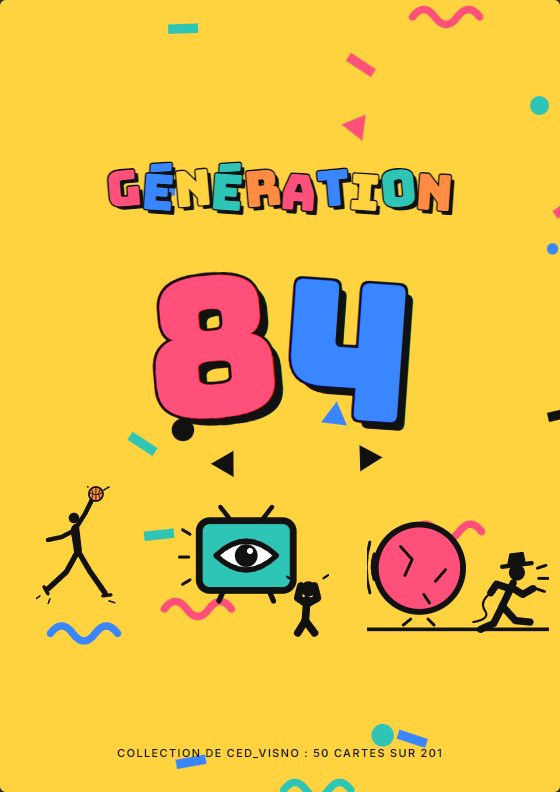
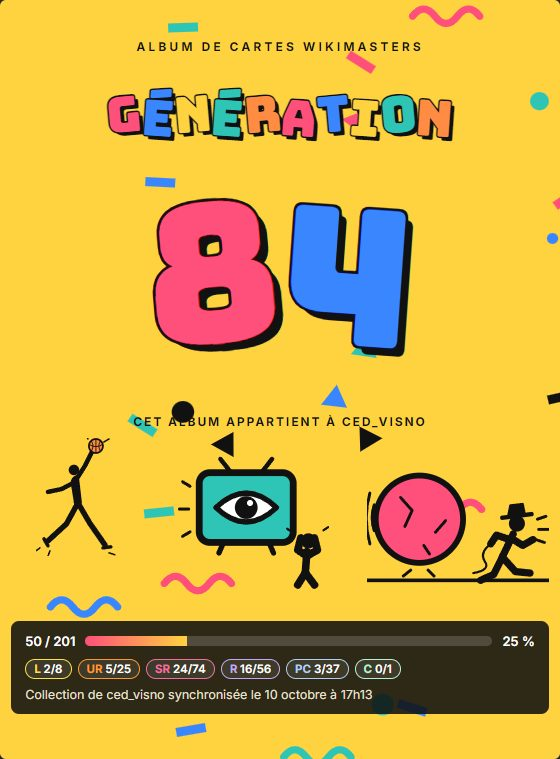
Mise à jour des albums

diff --git a/generation-84/index.html b/generation-84/index.html
@@ -269,11 +269,24 @@
   .chap > .vlabel { visibility:hidden; height:0; margin:0; }
   .chap, #couverture { scroll-margin-top:70px; }
   .covers.one { margin-bottom:34px; }
+  .cv-fl { justify-content:flex-start; padding-top:7%; aspect-ratio:auto; min-height:0; }
+  .cv-fl .brand, .cv-fl .owner { position:relative; z-index:2; margin:0; font:700 12px var(--wms); letter-spacing:.26em; text-transform:uppercase; }
+  .cv-fl .brand { margin-bottom:5%; } .cv-fl .owner { margin-top:3%; letter-spacing:.16em; }
+  .cv-fl .sils { margin-top:5%; }
+  .cv-fl .stats { position:relative; z-index:2; width:100%; margin:6% 0 0; padding:12px 14px; border-radius:8px; background:rgba(17,17,17,.88); color:#fff;
+                  text-align:left; }
+  .prog { display:flex; align-items:center; gap:10px; font:600 13px var(--wms); }
+  .track { flex:1; height:10px; border-radius:99px; background:rgba(255,255,255,.16); overflow:hidden; }
+  .track i { display:block; height:100%; background:linear-gradient(90deg, #ff4f7b, #ffd23f); }
+  .chips { display:flex; flex-wrap:wrap; gap:6px; margin-top:10px; }
+  .chip { padding:2px 8px; border-radius:99px; background:rgba(255,255,255,.08); border:1px solid var(--rc); font:600 11.5px var(--wms); }
+  .chip b { color:var(--rc); }
+  .state { margin:8px 0 0; font:500 12.5px var(--wms); color:#e8e2d4; } .state + .state { margin-top:2px; }
   @media (max-width: 900px) { nav.bar { flex-wrap:nowrap; overflow-x:auto; justify-content:flex-start; gap:12px; scrollbar-width:none; }
     nav.bar a { flex:none; font-size:10.5px; letter-spacing:.06em; } }
 </style></head><body>
 <nav class="bar"><a href="../" class="home">← Tous les albums</a><a href="#couverture">Couverture</a><a href="#dp-0">La France</a><a href="#dp-1">Le monde</a><a href="#dp-2">Orwell et insolite</a><a href="#dp-3">Le sport</a><a href="#dp-4">Le grand écran</a><a href="#dp-5">Le Top 50</a><a href="#dp-6">Le petit écran</a><a href="#dp-7">Les machines</a><a href="#dp-8">Les jeux vidéo</a><a href="#dp-9">Jouets</a><a href="#dp-10">Objets et nés en 84</a><a href="#dp-11">Génération 84</a></nav>
-<section class="covers one"><div id="couverture"><div class="cover cv-fl"><svg class="memphis" viewBox="0 0 300 420" preserveAspectRatio="none" aria-hidden="true"><rect width="16" height="5" transform="translate(71 229) rotate(33)" fill="#2ec4b6"/><rect width="16" height="5" transform="translate(188 28) rotate(33)" fill="#ff4f7b"/><rect width="16" height="5" transform="translate(78 98) rotate(3)" fill="#3a86ff"/><rect width="16" height="5" transform="translate(119 362) rotate(11)" fill="#ffd23f"/><path d="M222 282 q6 -8 12 0 t12 0 t12 0" fill="none" stroke="#ff4f7b" stroke-width="4" stroke-linecap="round"/><rect width="16" height="5" transform="translate(90 13) rotate(-2)" fill="#2ec4b6"/><rect width="16" height="5" transform="translate(214 387) rotate(18)" fill="#3a86ff"/><circle cx="289" cy="56" r="5" fill="#2ec4b6"/><rect width="16" height="5" transform="translate(77 282) rotate(-6)" fill="#2ec4b6"/><path d="M0 0 L14 0 L7 -12Z" transform="translate(172 224) rotate(7)" fill="#3a86ff"/><circle cx="205" cy="390" r="6" fill="#2ec4b6"/><circle cx="98" cy="228" r="6" fill="#111"/><rect width="16" height="5" transform="translate(296 112) rotate(-35)" fill="#ff4f7b"/><path d="M27 336 q6 -8 12 0 t12 0 t12 0" fill="none" stroke="#3a86ff" stroke-width="4" stroke-linecap="round"/><path d="M88 323 q6 -8 12 0 t12 0 t12 0" fill="none" stroke="#ff4f7b" stroke-width="4" stroke-linecap="round"/><path d="M0 0 L14 0 L7 -12Z" transform="translate(113 246) rotate(30)" fill="#111"/><path d="M152 419 q6 -8 12 0 t12 0 t12 0" fill="none" stroke="#2ec4b6" stroke-width="4" stroke-linecap="round"/><path d="M0 0 L14 0 L7 -12Z" transform="translate(180 13) rotate(38)" fill="#ffd23f"/><path d="M0 0 L14 0 L7 -12Z" transform="translate(183 66) rotate(38)" fill="#ff4f7b"/><rect width="16" height="5" transform="translate(94 403) rotate(-10)" fill="#3a86ff"/><path d="M0 0 L14 0 L7 -12Z" transform="translate(193 250) rotate(-32)" fill="#111"/><rect width="16" height="5" transform="translate(129 303) rotate(35)" fill="#ffd23f"/><rect width="16" height="5" transform="translate(293 219) rotate(-13)" fill="#111"/><circle cx="296" cy="132" r="3" fill="#3a86ff"/><path d="M0 0 L14 0 L7 -12Z" transform="translate(188 196) rotate(9)" fill="#2ec4b6"/><path d="M221 9 q6 -8 12 0 t12 0 t12 0" fill="none" stroke="#ff4f7b" stroke-width="4" stroke-linecap="round"/></svg><h1><span><span class="fl" style="--lc:#ff4f7b">G</span><span class="fl" style="--lc:#3a86ff">É</span><span class="fl" style="--lc:#ffd23f">N</span><span class="fl" style="--lc:#2ec4b6">É</span><span class="fl" style="--lc:#ff8c42">R</span><span class="fl" style="--lc:#ff4f7b">A</span><span class="fl" style="--lc:#3a86ff">T</span><span class="fl" style="--lc:#ffd23f">I</span><span class="fl" style="--lc:#2ec4b6">O</span><span class="fl" style="--lc:#ff8c42">N</span></span><span class="big84"><span class="fl" style="--lc:#ff4f7b">8</span><span class="fl" style="--lc:#3a86ff">4</span></span></h1><div class="sils"><svg class="sil" viewBox="0 -30 160 236" aria-hidden="true"><g fill="none" stroke="#111" stroke-linecap="round" stroke-linejoin="round">
+<section class="covers one"><div id="couverture"><div class="cover cv-fl"><svg class="memphis" viewBox="0 0 300 420" preserveAspectRatio="none" aria-hidden="true"><rect width="16" height="5" transform="translate(71 229) rotate(33)" fill="#2ec4b6"/><rect width="16" height="5" transform="translate(188 28) rotate(33)" fill="#ff4f7b"/><rect width="16" height="5" transform="translate(78 98) rotate(3)" fill="#3a86ff"/><rect width="16" height="5" transform="translate(119 362) rotate(11)" fill="#ffd23f"/><path d="M222 282 q6 -8 12 0 t12 0 t12 0" fill="none" stroke="#ff4f7b" stroke-width="4" stroke-linecap="round"/><rect width="16" height="5" transform="translate(90 13) rotate(-2)" fill="#2ec4b6"/><rect width="16" height="5" transform="translate(214 387) rotate(18)" fill="#3a86ff"/><circle cx="289" cy="56" r="5" fill="#2ec4b6"/><rect width="16" height="5" transform="translate(77 282) rotate(-6)" fill="#2ec4b6"/><path d="M0 0 L14 0 L7 -12Z" transform="translate(172 224) rotate(7)" fill="#3a86ff"/><circle cx="205" cy="390" r="6" fill="#2ec4b6"/><circle cx="98" cy="228" r="6" fill="#111"/><rect width="16" height="5" transform="translate(296 112) rotate(-35)" fill="#ff4f7b"/><path d="M27 336 q6 -8 12 0 t12 0 t12 0" fill="none" stroke="#3a86ff" stroke-width="4" stroke-linecap="round"/><path d="M88 323 q6 -8 12 0 t12 0 t12 0" fill="none" stroke="#ff4f7b" stroke-width="4" stroke-linecap="round"/><path d="M0 0 L14 0 L7 -12Z" transform="translate(113 246) rotate(30)" fill="#111"/><path d="M152 419 q6 -8 12 0 t12 0 t12 0" fill="none" stroke="#2ec4b6" stroke-width="4" stroke-linecap="round"/><path d="M0 0 L14 0 L7 -12Z" transform="translate(180 13) rotate(38)" fill="#ffd23f"/><path d="M0 0 L14 0 L7 -12Z" transform="translate(183 66) rotate(38)" fill="#ff4f7b"/><rect width="16" height="5" transform="translate(94 403) rotate(-10)" fill="#3a86ff"/><path d="M0 0 L14 0 L7 -12Z" transform="translate(193 250) rotate(-32)" fill="#111"/><rect width="16" height="5" transform="translate(129 303) rotate(35)" fill="#ffd23f"/><rect width="16" height="5" transform="translate(293 219) rotate(-13)" fill="#111"/><circle cx="296" cy="132" r="3" fill="#3a86ff"/><path d="M0 0 L14 0 L7 -12Z" transform="translate(188 196) rotate(9)" fill="#2ec4b6"/><path d="M221 9 q6 -8 12 0 t12 0 t12 0" fill="none" stroke="#ff4f7b" stroke-width="4" stroke-linecap="round"/></svg><p class="brand">Album de cartes WikiMasters</p><h1><span><span class="fl" style="--lc:#ff4f7b">G</span><span class="fl" style="--lc:#3a86ff">É</span><span class="fl" style="--lc:#ffd23f">N</span><span class="fl" style="--lc:#2ec4b6">É</span><span class="fl" style="--lc:#ff8c42">R</span><span class="fl" style="--lc:#ff4f7b">A</span><span class="fl" style="--lc:#3a86ff">T</span><span class="fl" style="--lc:#ffd23f">I</span><span class="fl" style="--lc:#2ec4b6">O</span><span class="fl" style="--lc:#ff8c42">N</span></span><span class="big84"><span class="fl" style="--lc:#ff4f7b">8</span><span class="fl" style="--lc:#3a86ff">4</span></span></h1><p class="owner">Cet album appartient à ced_visno</p><div class="sils"><svg class="sil" viewBox="0 -30 160 236" aria-hidden="true"><g fill="none" stroke="#111" stroke-linecap="round" stroke-linejoin="round">
 <circle cx="76" cy="34" r="10.5" fill="#111" stroke="none"/>
 <path d="M82 48 Q72 52 74 62 L80 100 Q84 104 88 100 Z" fill="#111" stroke-width="8"/>
 <path d="M80 54 L98 26 L112 -2" stroke-width="9"/><path d="M78 58 L52 72 L24 78" stroke-width="9"/>
@@ -297,7 +310,7 @@
 <g stroke-width="10"><path d="M165 76 L150 108"/><path d="M162 82 L178 92 L192 84"/><path d="M160 84 L142 78 L134 90"/>
 <path d="M150 108 L168 128 L188 130"/><path d="M150 108 L138 132 L120 140"/></g>
 <path d="M134 90 Q118 102 126 114 T110 130" stroke-width="3"/>
-<g stroke-width="4"><path d="M198 56 l12 -4"/><path d="M200 70 l14 0"/><path d="M196 84 l12 4"/></g></g></g></svg></div><p class="got">Collection de ced_visno : 50 cartes sur 201</p></div></div></section>
+<g stroke-width="4"><path d="M198 56 l12 -4"/><path d="M200 70 l14 0"/><path d="M196 84 l12 4"/></g></g></g></svg></div><div class="stats"><div class="prog"><span>50 / 201</span><span class="track"><i style="width:25%"></i></span><span>25 %</span></div><div class="chips"><span class="chip" style="--rc:#ffe144"><b>L</b> 2/8</span><span class="chip" style="--rc:#fa9931"><b>UR</b> 5/25</span><span class="chip" style="--rc:#ed6fa3"><b>SR</b> 24/74</span><span class="chip" style="--rc:#c6a7f2"><b>R</b> 16/56</span><span class="chip" style="--rc:#b1cff2"><b>PC</b> 3/37</span><span class="chip" style="--rc:#b8f2d5"><b>C</b> 0/1</span></div><p class="state">Collection de ced_visno synchronisée le 10 octobre à 17h13</p></div></div></div></section>
 <section class="chap th-france" id="dp-0"><p class="vlabel">La France en 1984</p><div class="spread"><div class="page left has-sil"><header class="ch"><div class="cht"><p class="kick">Édition spéciale</p><h2>La France en 1984</h2><p class="count">0 / 12 cartes</p></div></header><div class="grid few"><figure class="slot r-ur" style="--rc:#fa9931"><div class="frame"><span class="rc">UR</span><span class="big">001</span><span class="here">collez ici</span></div><figcaption><b>#001</b> <a href="https://fr.wikipedia.org/wiki/Canal%2B" target="_blank" rel="noopener">Canal+</a></figcaption></figure><figure class="slot r-l" style="--rc:#ffe144"><svg class="crown" viewBox="0 0 60 36" aria-hidden="true"><path d="M4 32 L8 6 L20 22 L30 2 L40 22 L52 6 L56 32 Z" fill="none" stroke="currentColor" stroke-width="4" stroke-linejoin="round"/><path d="M8 32 L52 32" stroke="currentColor" stroke-width="4"/></svg><div class="frame"><span class="rc">L</span><span class="big">002</span><span class="here">collez ici</span></div><figcaption><b>#002</b> <a href="https://fr.wikipedia.org/wiki/TV5_Monde" target="_blank" rel="noopener">TV5 Monde</a></figcaption></figure><figure class="slot r-sr" style="--rc:#ed6fa3"><div class="frame"><span class="rc">SR</span><span class="big">003</span><span class="here">collez ici</span></div><figcaption><b>#003</b> <a href="https://fr.wikipedia.org/wiki/Le_Z%C3%A9nith_Paris_-_La_Villette" target="_blank" rel="noopener">Le Zénith Paris - La Villette</a></figcaption></figure><figure class="slot r-ur" style="--rc:#fa9931"><div class="frame"><span class="rc">UR</span><span class="big">004</span><span class="here">collez ici</span></div><figcaption><b>#004</b> <a href="https://fr.wikipedia.org/wiki/Palais_omnisports_de_Paris-Bercy" target="_blank" rel="noopener">Palais omnisports de Paris-Bercy</a></figcaption></figure><figure class="slot r-r" style="--rc:#c6a7f2"><div class="frame"><span class="rc">R</span><span class="big">005</span><span class="here">collez ici</span></div><figcaption><b>#005</b> <a href="https://fr.wikipedia.org/wiki/Poign%C3%A9e_de_main_de_Fran%C3%A7ois_Mitterrand_et_Helmut_Kohl_%C3%A0_Douaumont" target="_blank" rel="noopener">Poignée de main de François Mitterrand et Helmut Kohl à Douaumont</a></figcaption></figure><figure class="slot r-sr" style="--rc:#ed6fa3"><div class="frame"><span class="rc">SR</span><span class="big">006</span><span class="here">collez ici</span></div><figcaption><b>#006</b> <a href="https://fr.wikipedia.org/wiki/Pont_des_Arts" target="_blank" rel="noopener">Pont des Arts</a></figcaption></figure></div><div class="deco-sil"><svg class="sil" viewBox="0 -12 230 182" aria-hidden="true"><g fill="none" stroke="currentColor" stroke-linecap="round" stroke-linejoin="round"><path d="M70 40 L54 8 M110 40 L130 6" stroke-width="5"/><rect x="30" y="40" width="122" height="92" rx="12" stroke-width="9"/>
 <path d="M48 62 l9 7 l9 -7 l9 7 l9 -7 l9 7 l9 -7 l9 7 l9 -7 l9 7" stroke="#ff4f7b" stroke-width="4"/><path d="M48 74 l9 7 l9 -7 l9 7 l9 -7 l9 7 l9 -7 l9 7 l9 -7 l9 7" stroke="#2ec4b6" stroke-width="4"/><path d="M48 86 l9 7 l9 -7 l9 7 l9 -7 l9 7 l9 -7 l9 7 l9 -7 l9 7" stroke="#3a86ff" stroke-width="4"/><path d="M48 98 l9 7 l9 -7 l9 7 l9 -7 l9 7 l9 -7 l9 7 l9 -7 l9 7" stroke="#ffd23f" stroke-width="4"/><path d="M48 110 l9 7 l9 -7 l9 7 l9 -7 l9 7 l9 -7 l9 7 l9 -7 l9 7" stroke="#ff8c42" stroke-width="4"/><path d="M50 132 L44 148 M132 132 L138 148" stroke-width="7"/>
 <circle cx="190" cy="54" r="11" fill="currentColor" stroke="none"/><g stroke-width="9"><path d="M188 68 L186 114"/><path d="M186 76 L162 48 L136 14"/>
